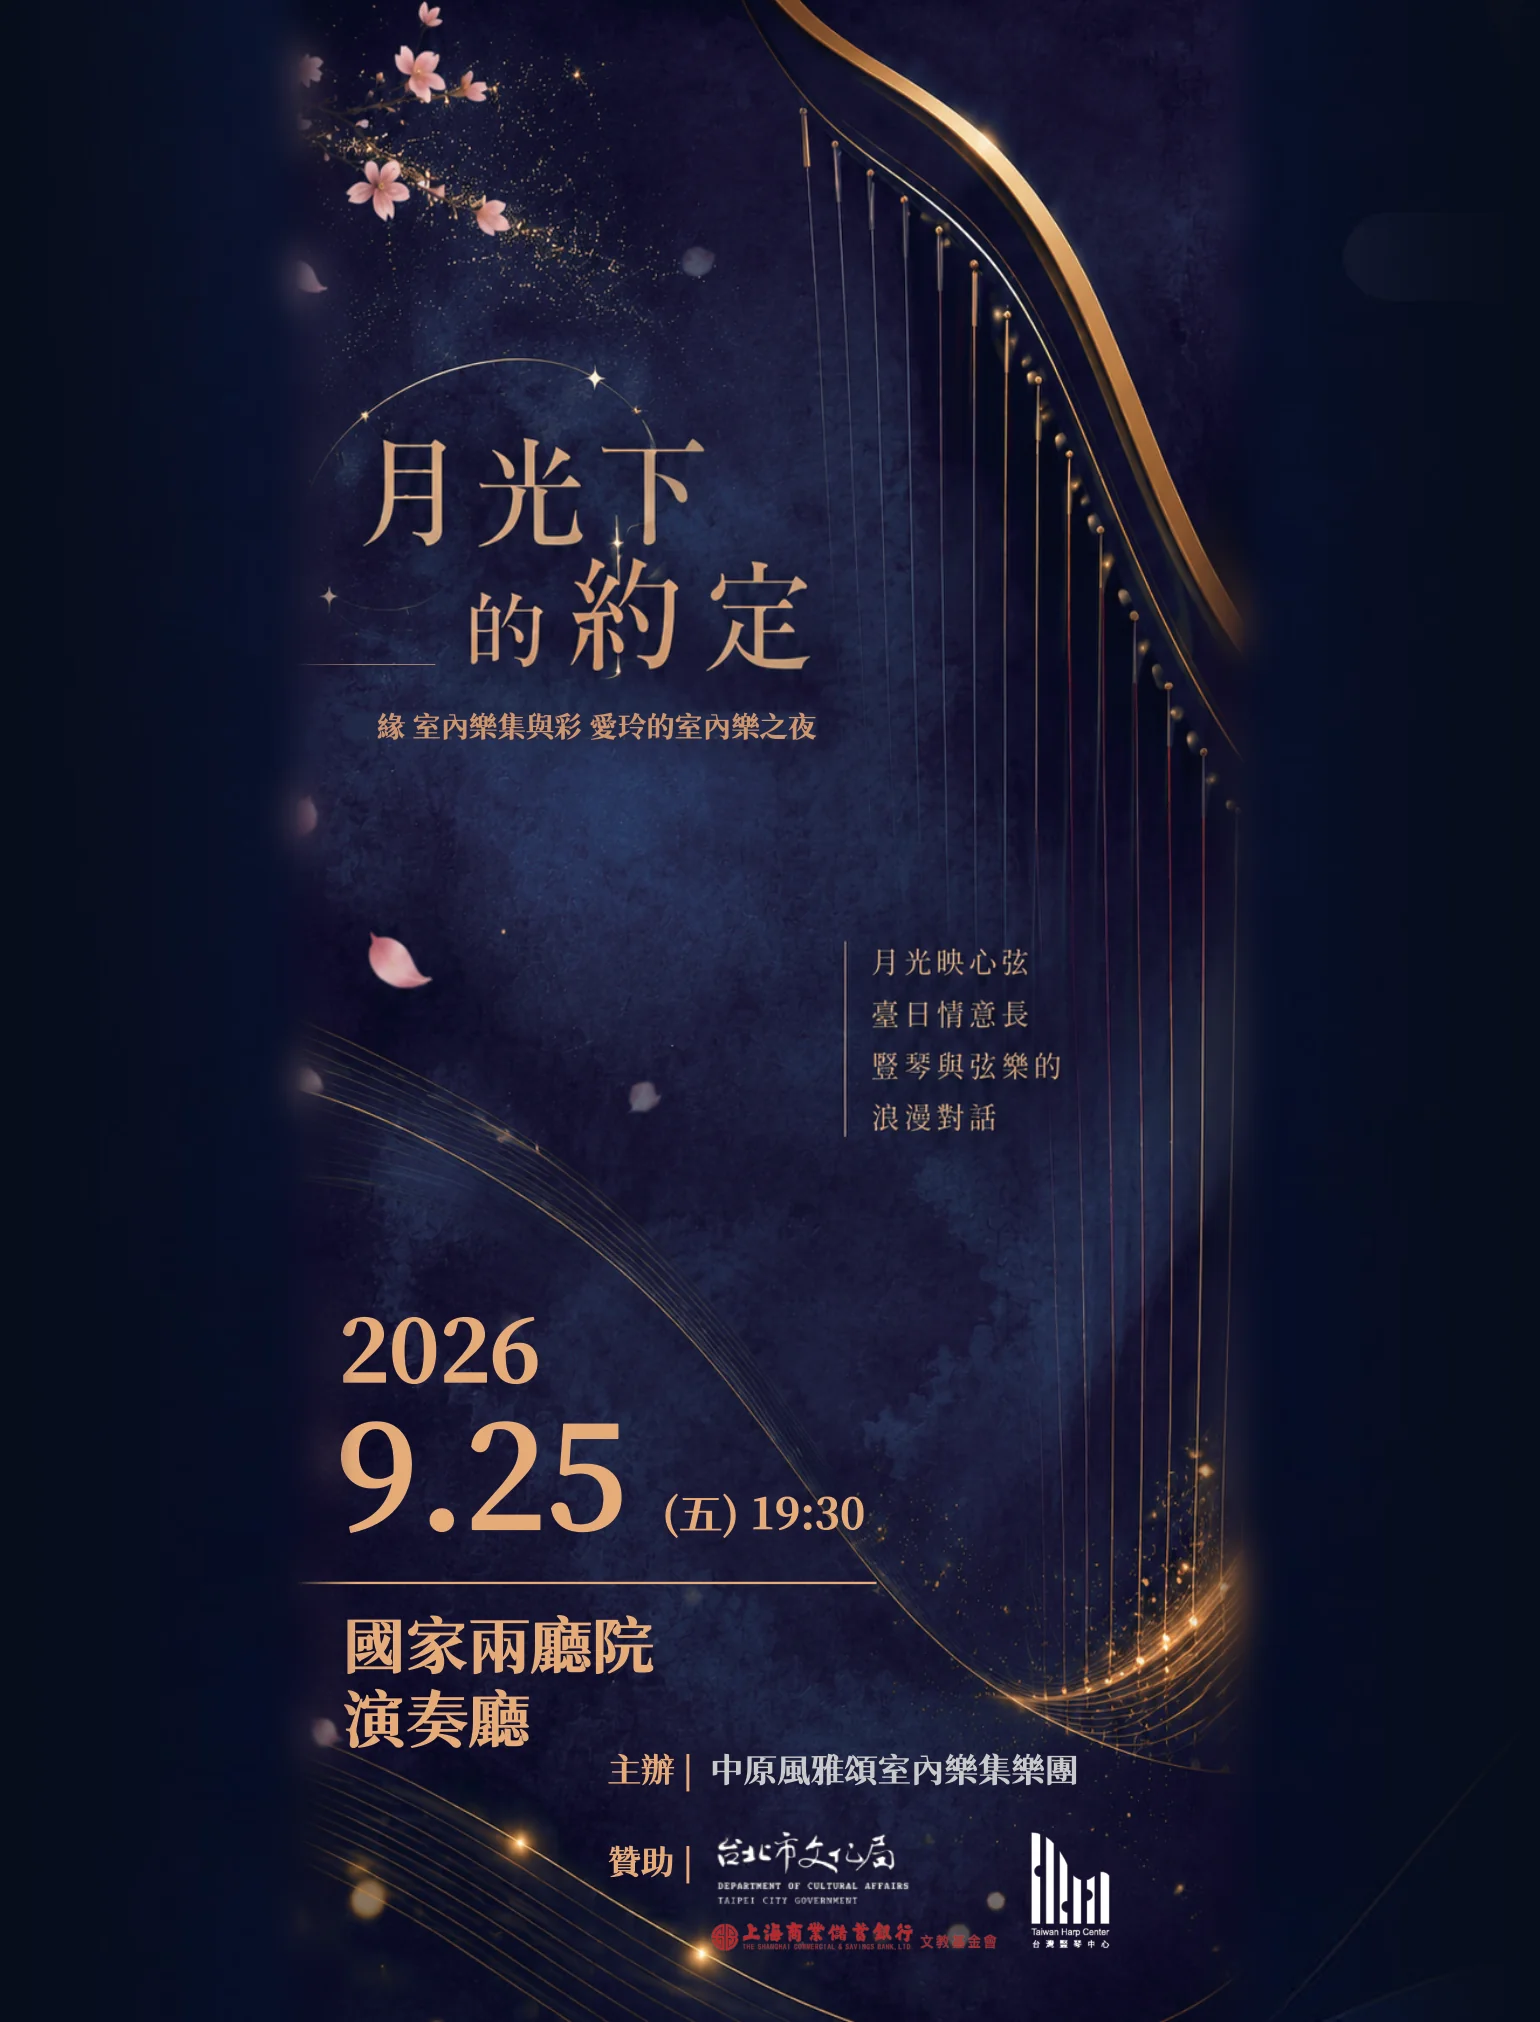
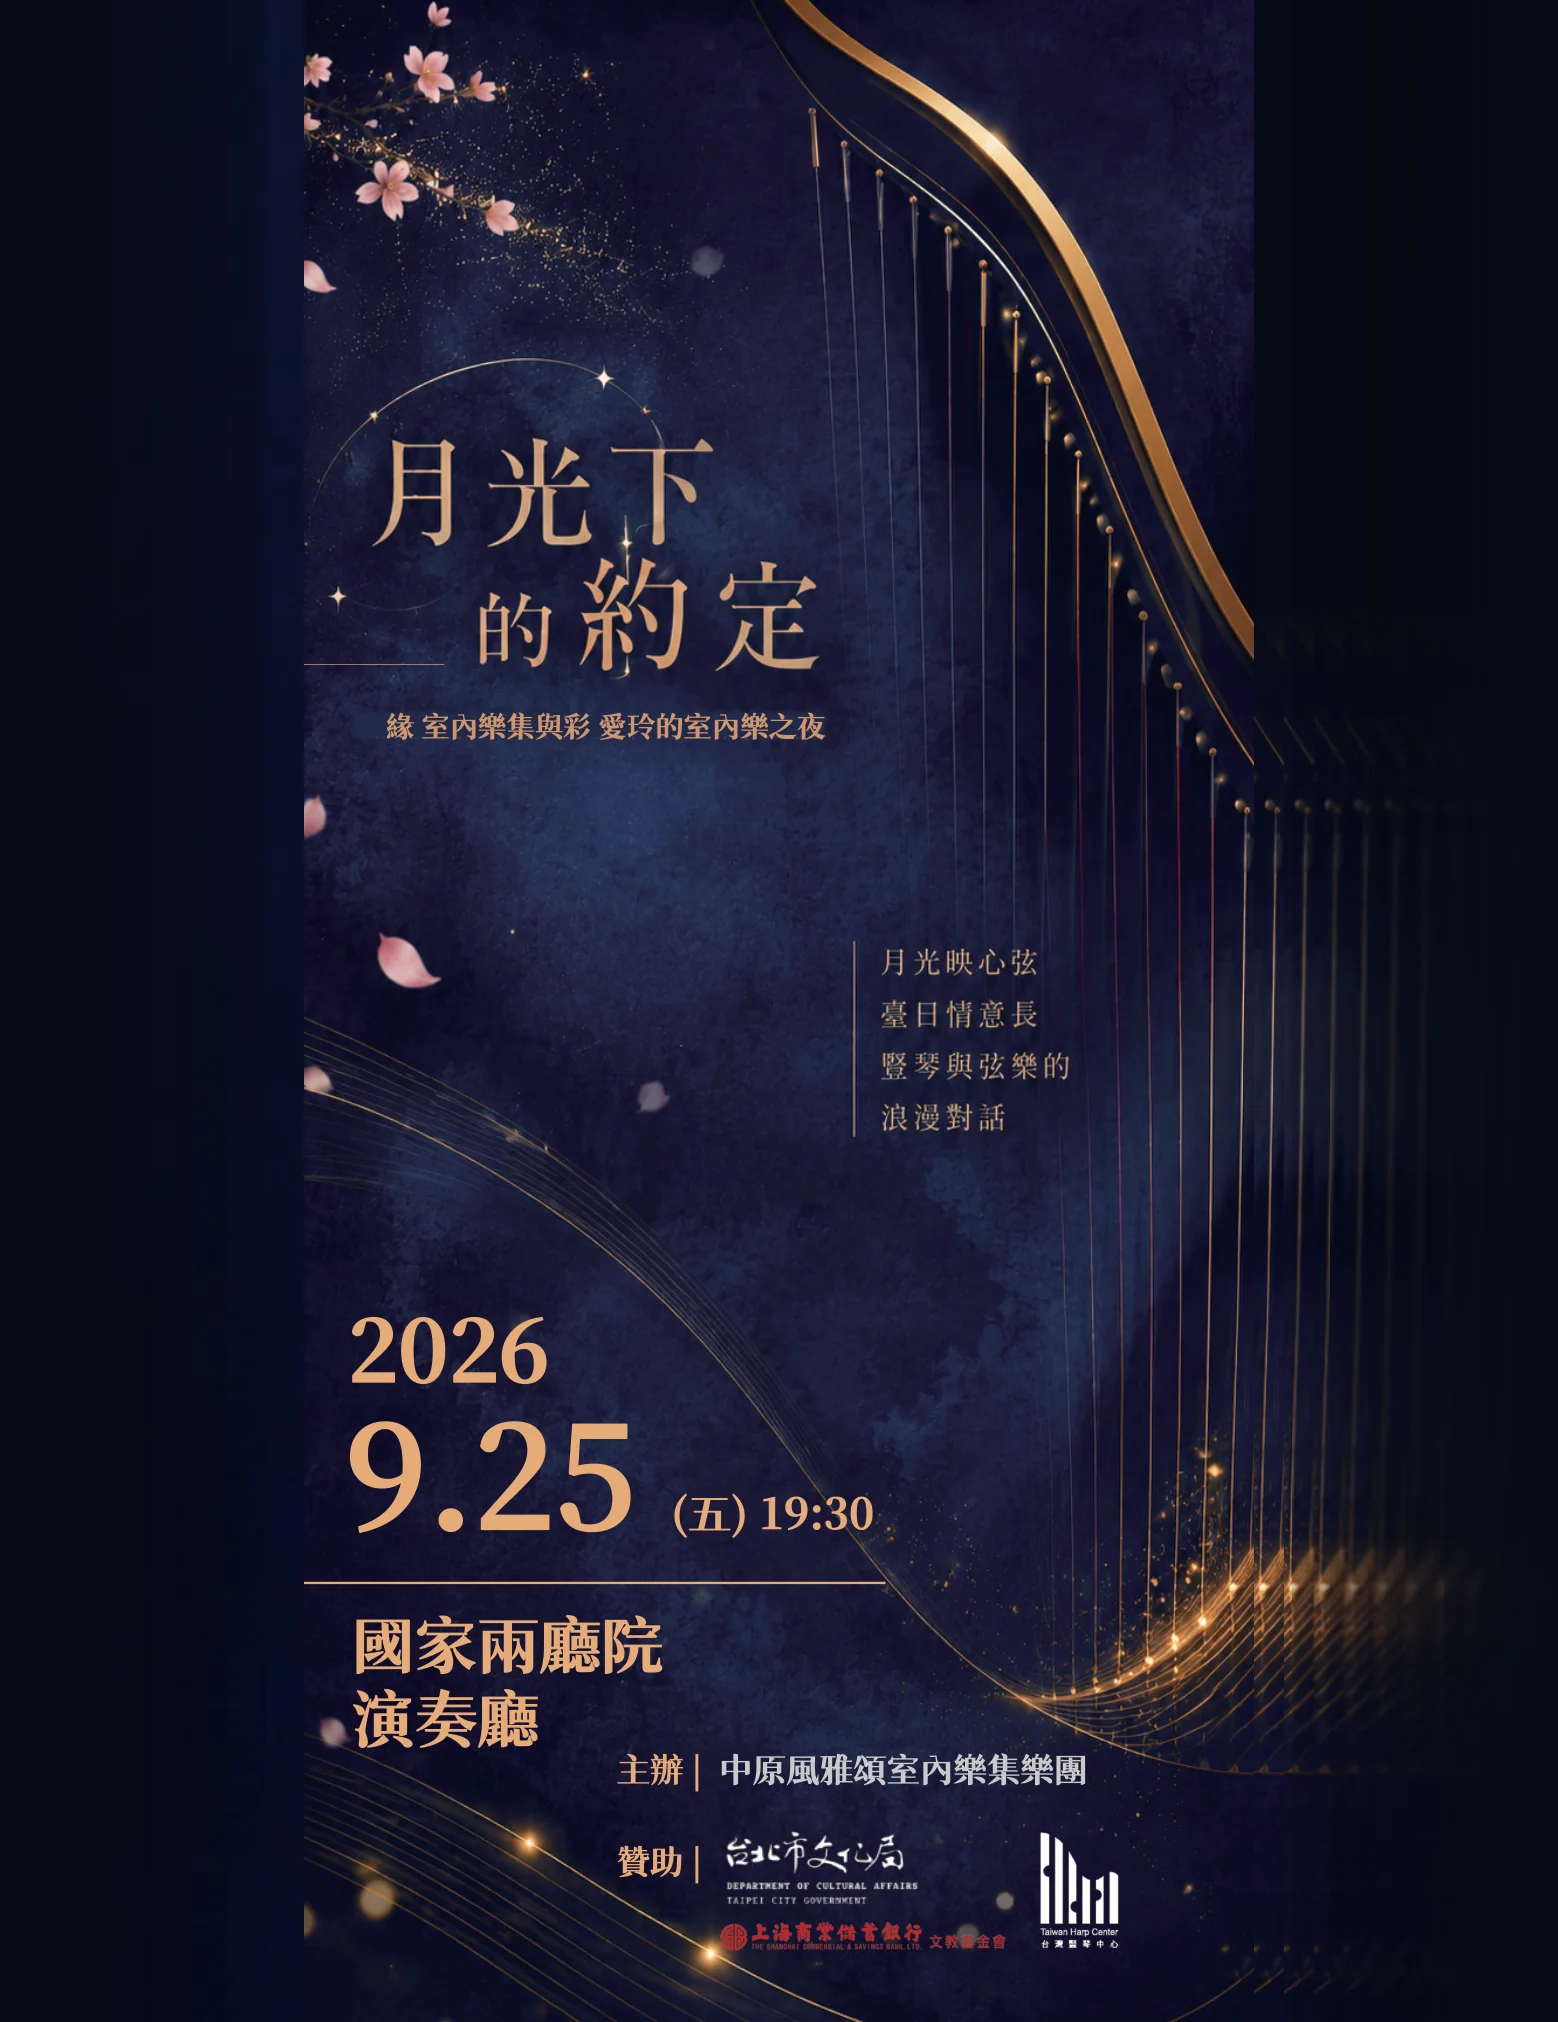
feat(notes): carry the cover's own drawing into its field
The panel still ended in a visible cut: the harp's strings stopped at the
fold. Now the sides carry the drawing on — the sheet's own wash, gold
lines and petals to the left, the harp's strings repeated at their own
spacing to the right, the neck leaving the frame as it would — each
softening and darkening outward until it is night.

diff --git a/src/data/moonlight-promise-people.js b/src/data/moonlight-promise-people.js
@@ -100,7 +100,7 @@ export const moonlightPromisePeople = [
  */
 export const moonlightPromiseCoverArtwork = {
   url: coverUrl,
-  width: 1540,
+  width: 1558,
   height: 2022,
   alt: "月光下的約定：2026 年 9 月 25 日（五）19:30，國家兩廳院演奏廳",
 };
